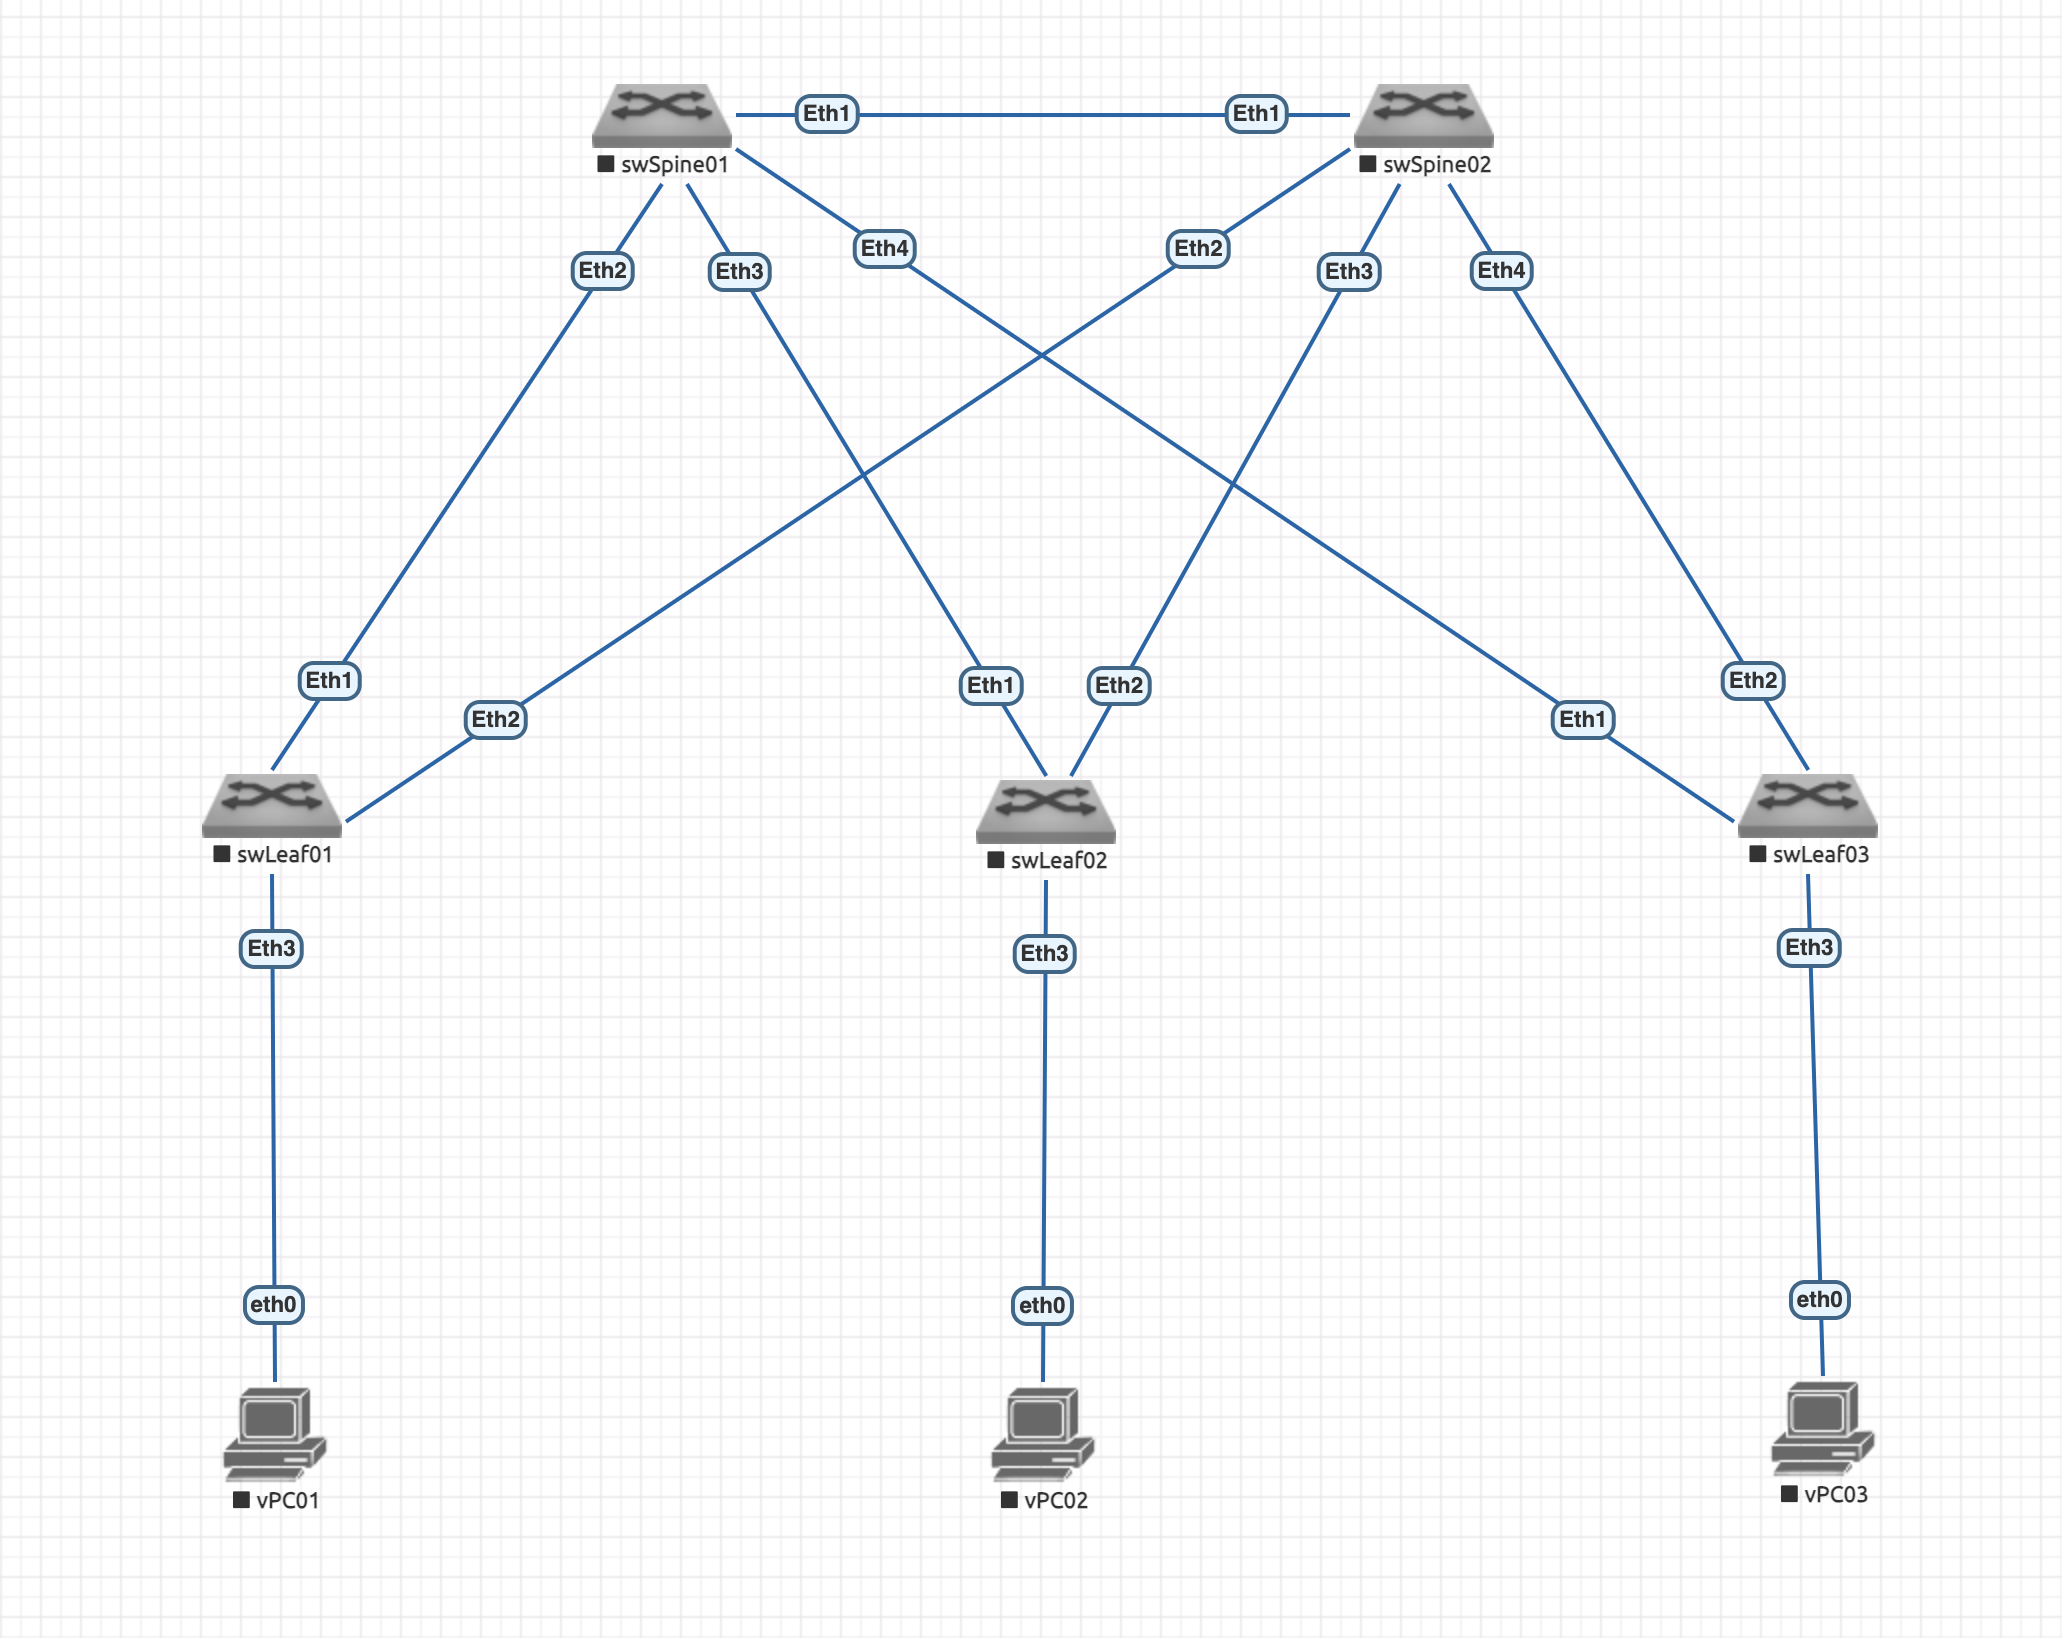
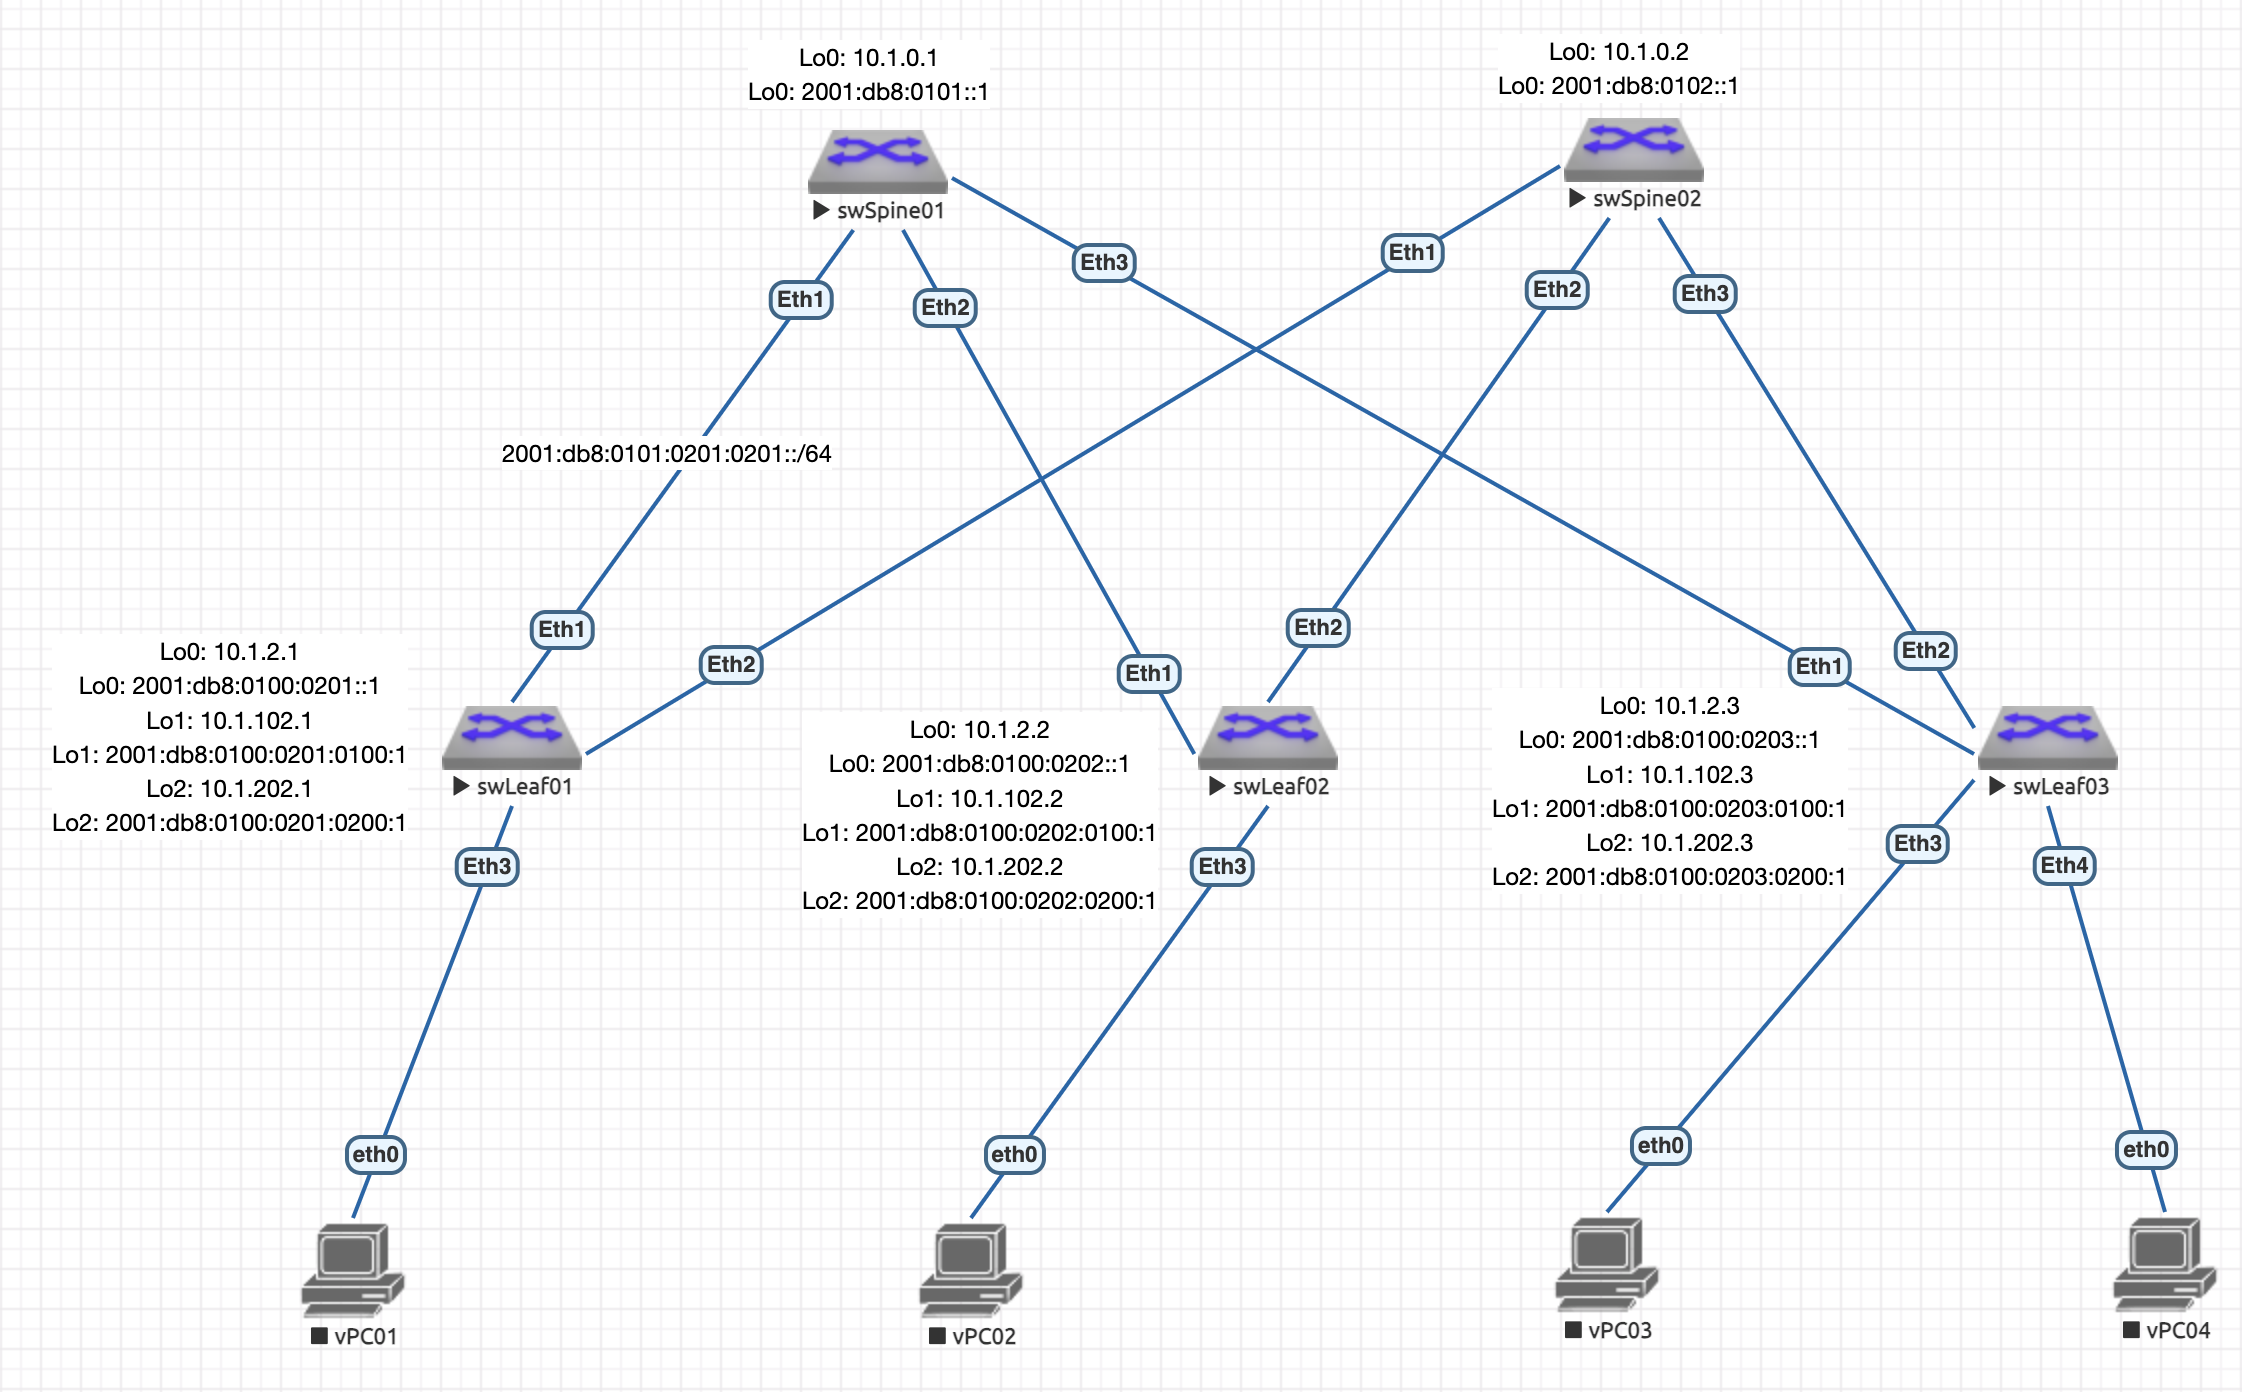
Full Work

diff --git a/Lab01/README.md b/Lab01/README.md
@@ -6,7 +6,7 @@
 - [Распределение адресного пространства для Underlay сети](#распределение-адресного-пространства-для-underlay-сети)
 
 ### Схема сети
-![Схема сети](image-2.png)
+![Схема сети](image.png)
 
 ### Расчет емкости ЦОД
 Будем считать, что DC представляет собой коммерческий микро-ЦОД следующей конфигурации:
